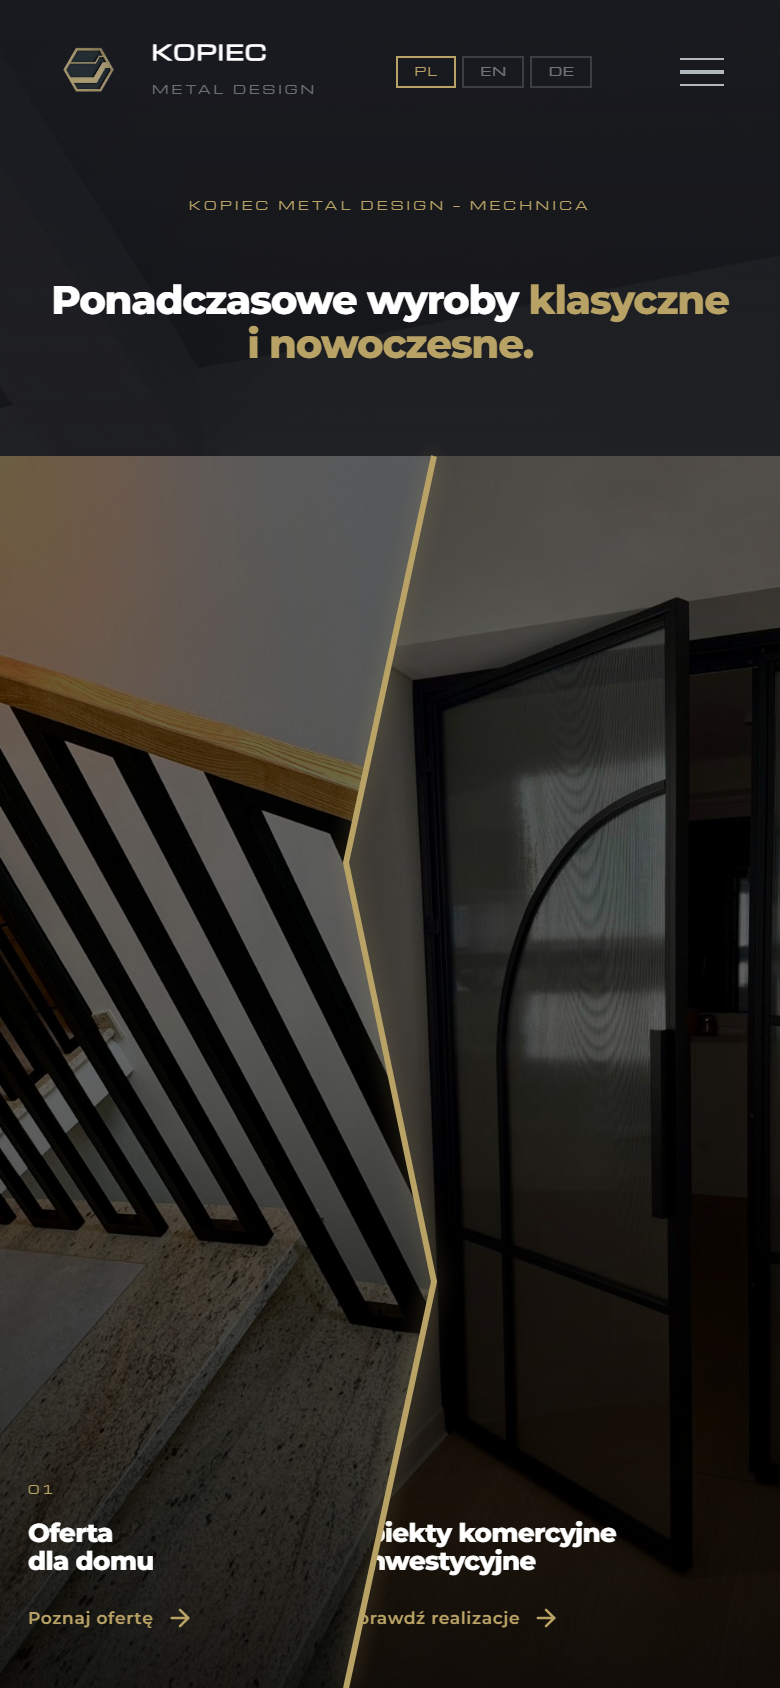
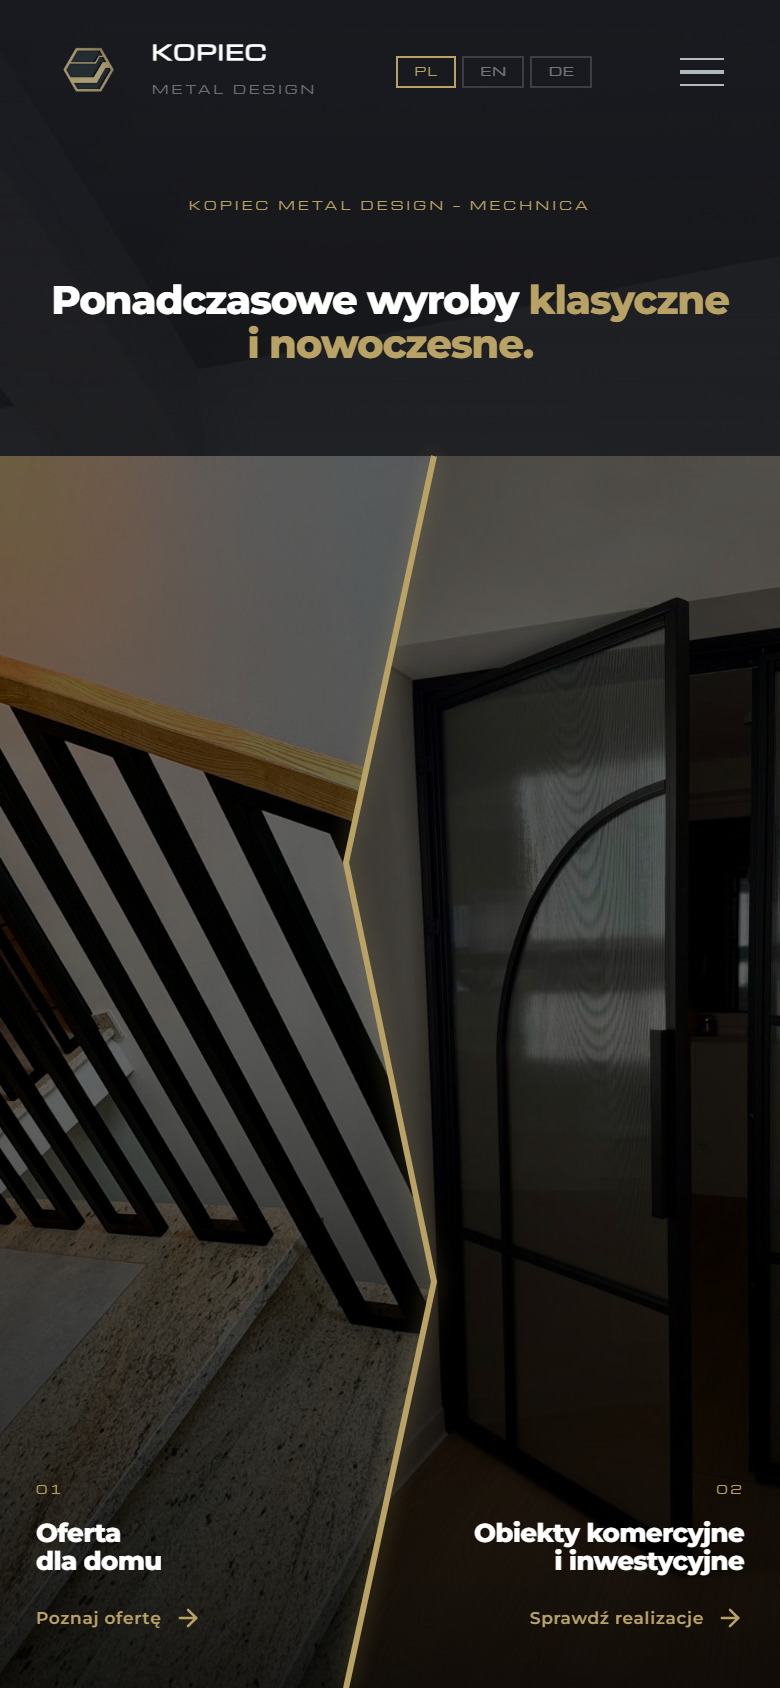
Fix mobile hero text alignment: push away from zigzag separator

Changed region(s): [[0.4923, 0.8934, 0.9538, 0.9858], [0.0308, 0.8934, 0.2462, 0.9858]]

diff --git a/index.html b/index.html
@@ -777,8 +777,9 @@
       .hero-h1 { font-size: 2.4rem; line-height: 1.12; }
       .hero-h1 br { display: none; }
       .hero-panel { padding: 16px 14px 28px; }
-      .hero-panel-left { width: calc(50% + 36px); }
-      .hero-panel-right { width: calc(50% + 36px); align-items: flex-start; padding-right: 14px; }
+      .hero-panel-left { width: calc(50% + 36px); padding-left: 18px; }
+      .hero-panel-right { width: calc(50% + 36px); align-items: flex-end; padding-right: 18px; padding-left: 0; }
+      .hero-panel-right .hero-panel-body { text-align: right; }
       .hero-panel h3 { font-size: 1.5rem; margin-bottom: 10px; }
       .hero-panel-cta { font-size: 0.95rem; }
 
